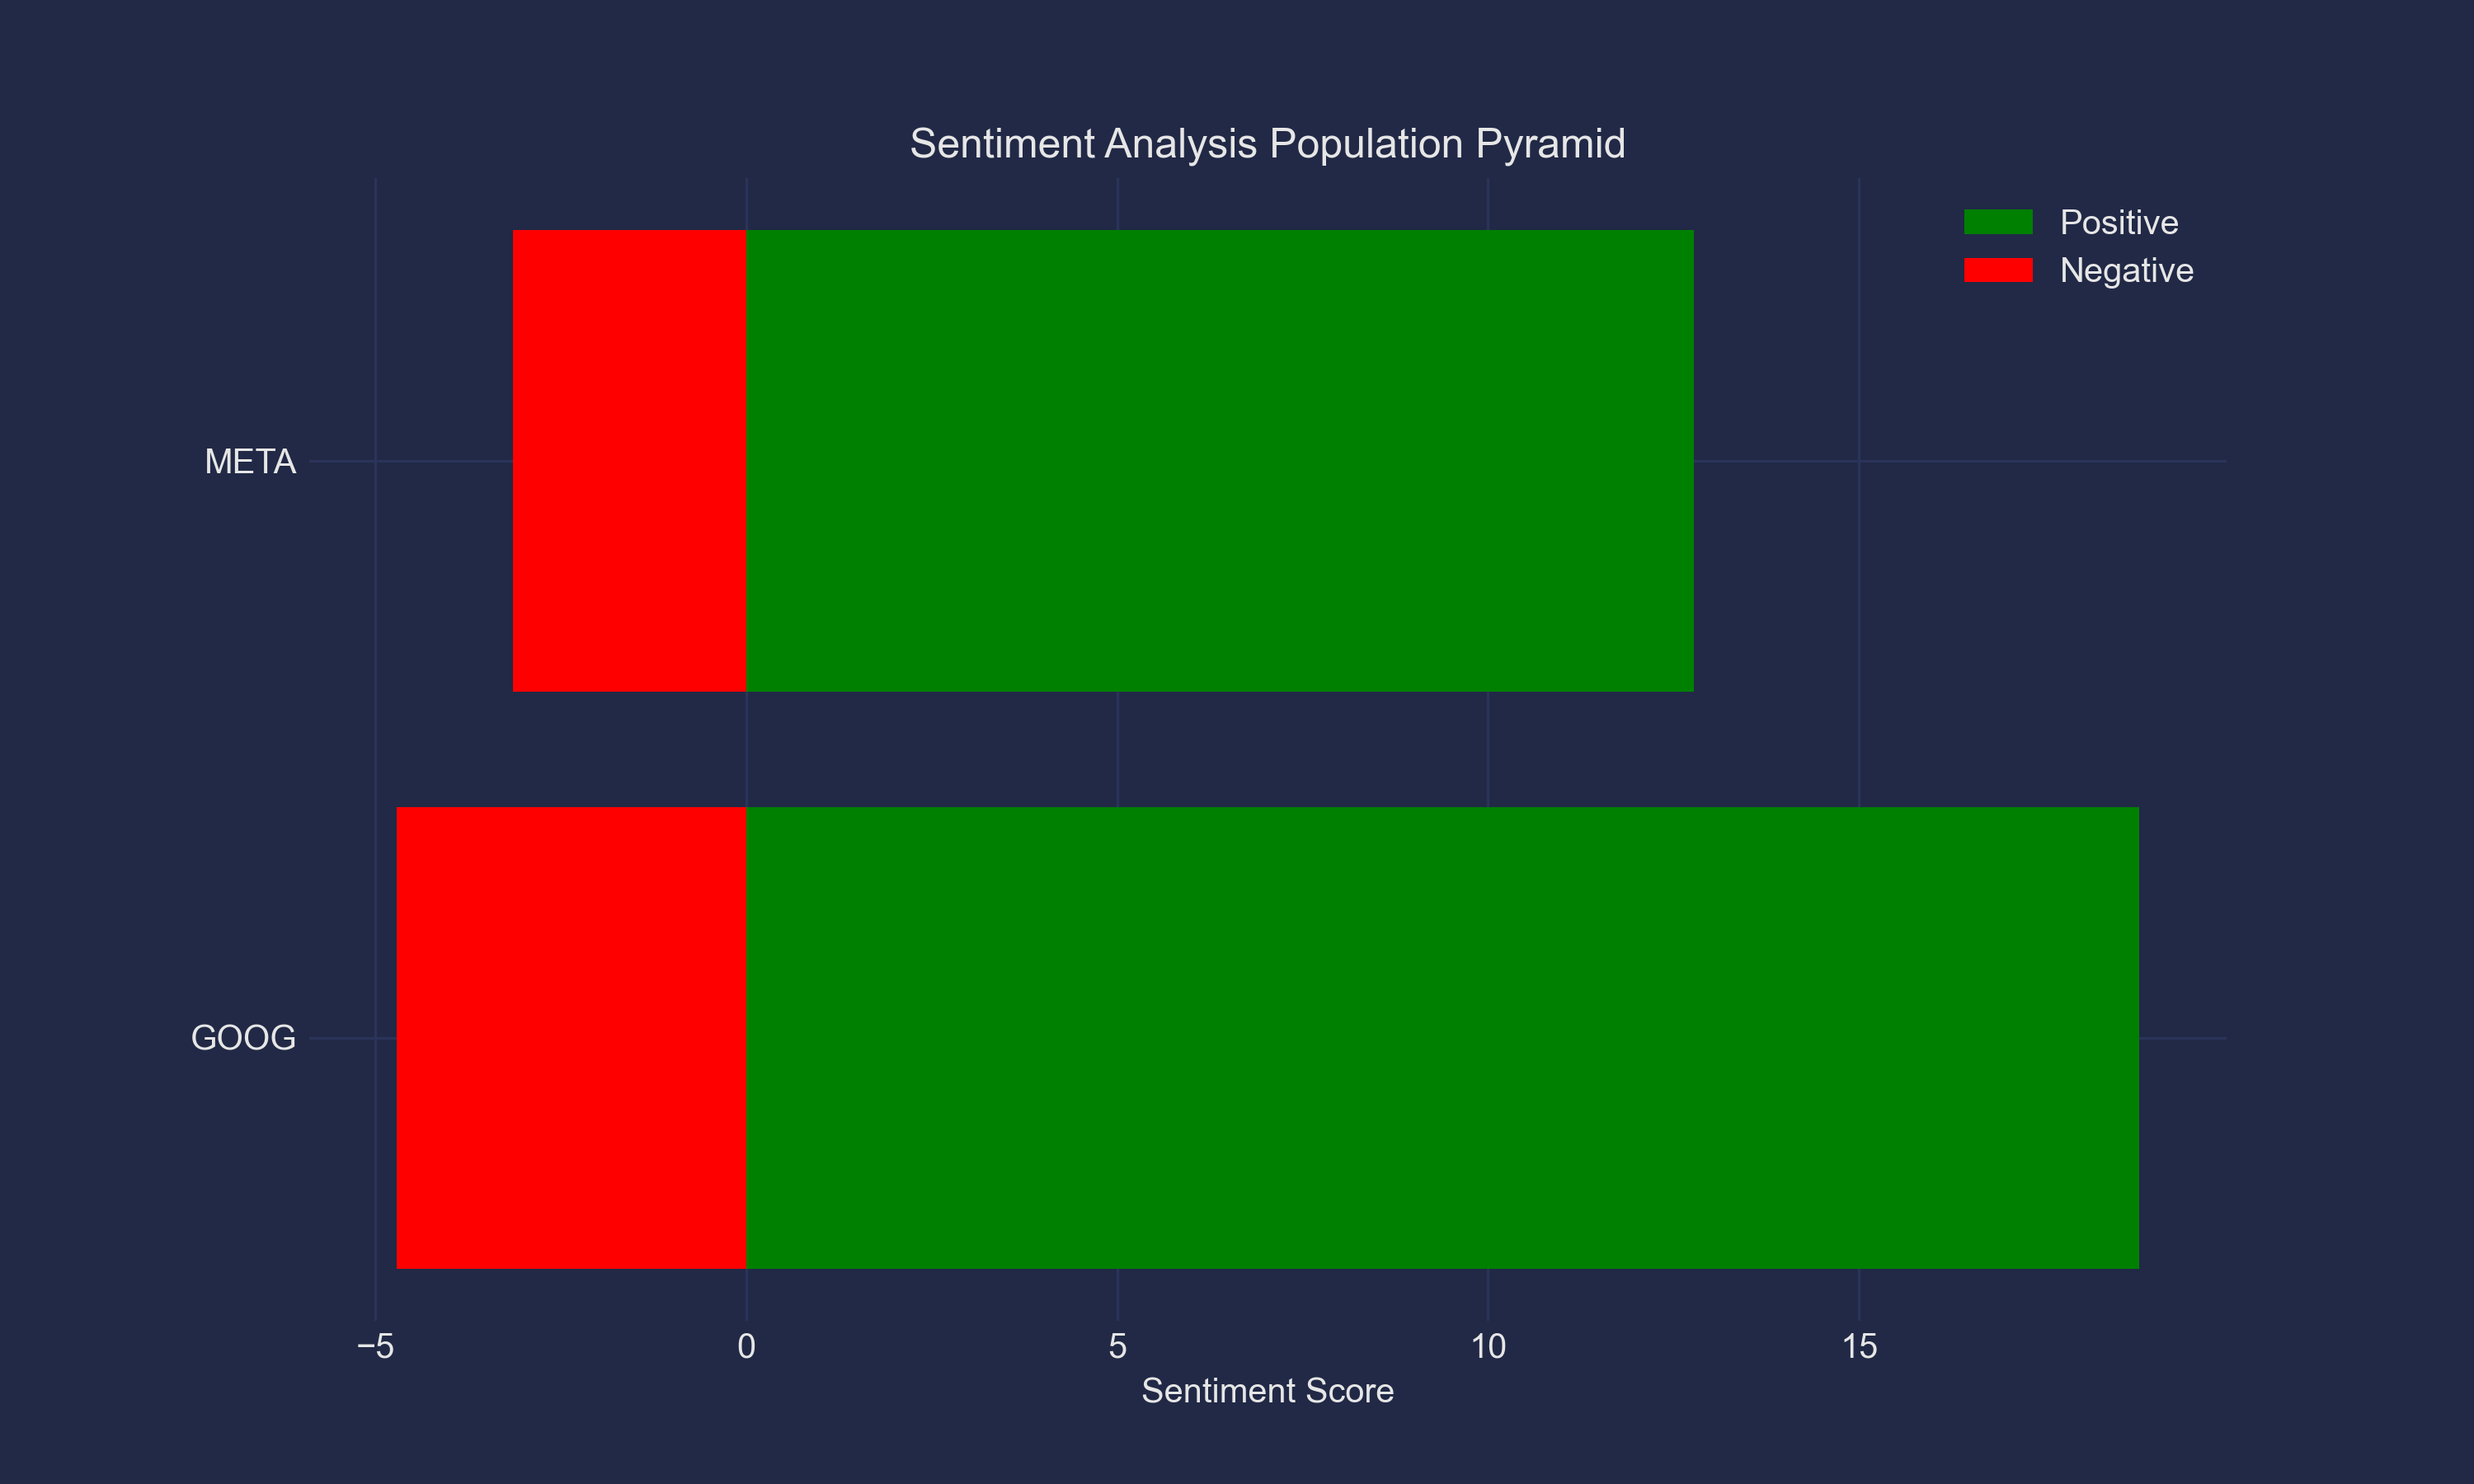
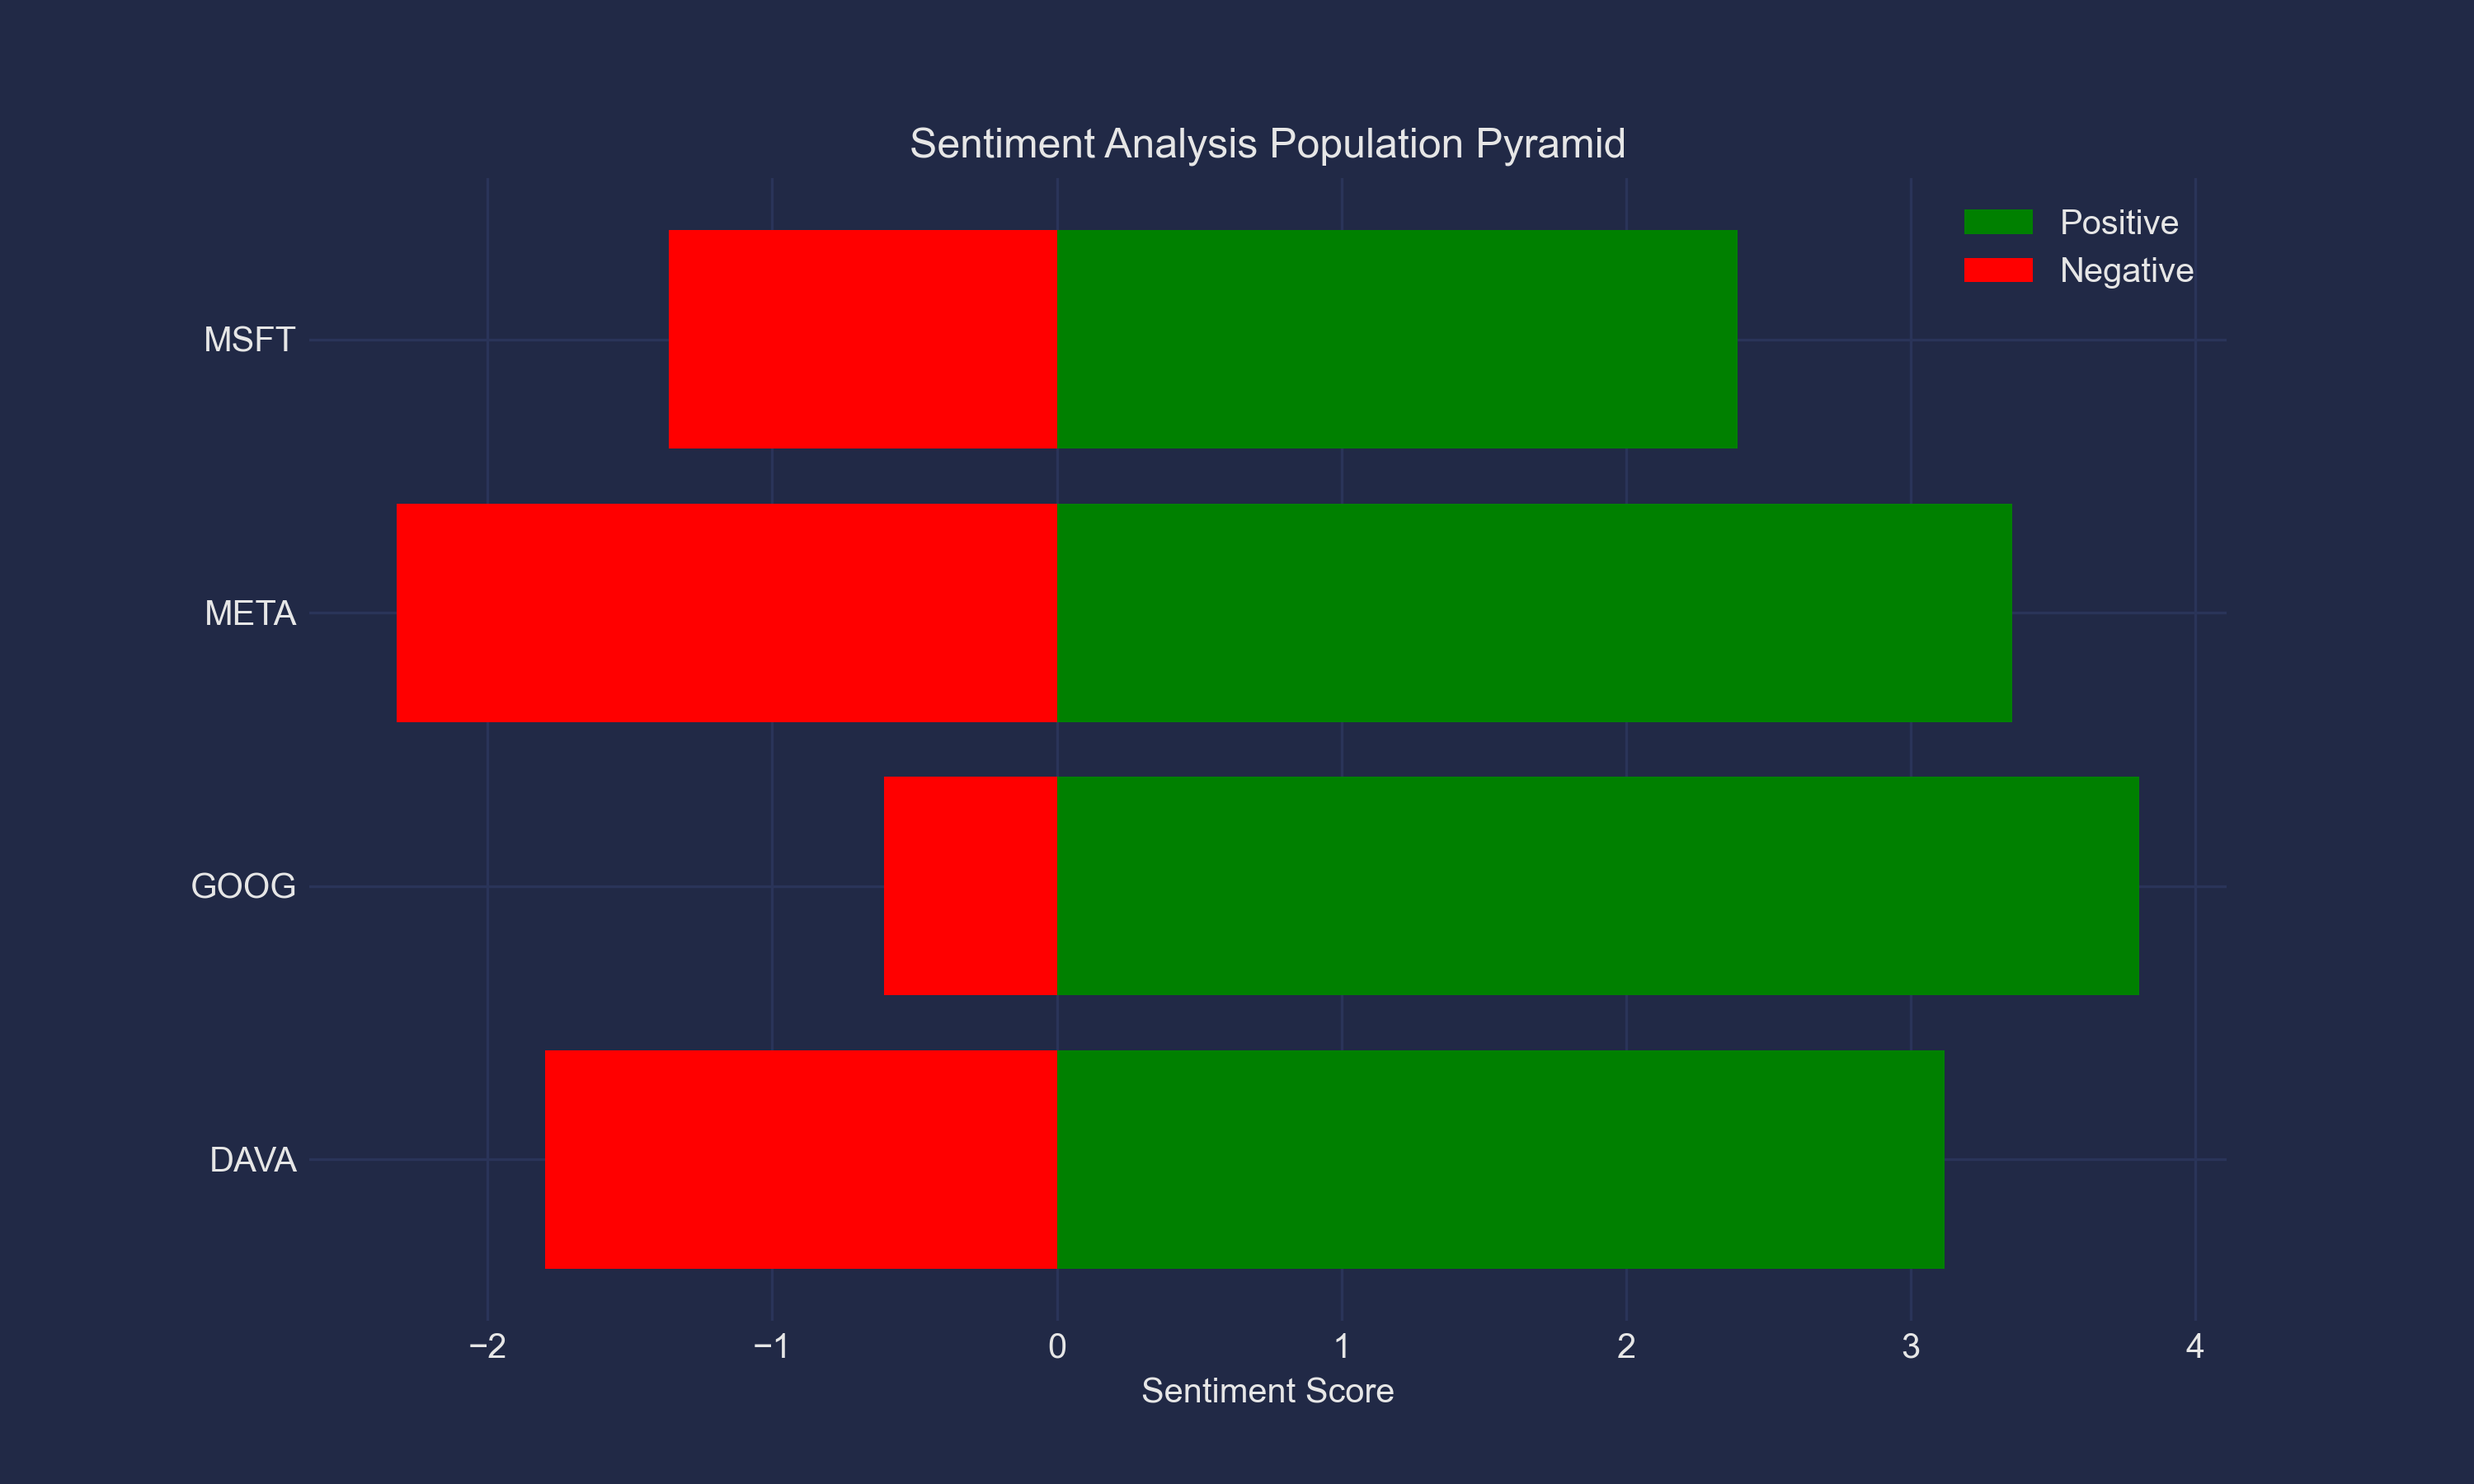
second part of my previous commit

diff --git a/sentimentsparkapp/src/main/java/com/sentimentspark/sentimentsparkapp/service/PyScriptRunner.java b/sentimentsparkapp/src/main/java/com/sentimentspark/sentimentsparkapp/service/PyScriptRunner.java
@@ -19,7 +19,8 @@ public class PyScriptRunner {
     public void runScript() throws IOException, InterruptedException {
         List<String> command = new ArrayList<>();
         command.add("python");
-        command.add("finviz.py");
+        command.add("main_script_runner.py");
+        command.add("stock_analysis");
         command.addAll(companies);
 
         System.out.println("Executing command: " + command);

diff --git a/sentimentsparkapp/src/main/java/com/sentimentspark/sentimentsparkapp/SentimentsparkappApplication.java b/sentimentsparkapp/src/main/java/com/sentimentspark/sentimentsparkapp/SentimentsparkappApplication.java
@@ -19,7 +19,7 @@ public class SentimentsparkappApplication implements CommandLineRunner {
 	@Override
 	public void run(String... args) throws Exception {
 
-		PyScriptRunner pythonScriptRunner = new PyScriptRunner(List.of("META","GOOG"));
+		PyScriptRunner pythonScriptRunner = new PyScriptRunner(List.of("META","GOOG","MSFT", "DAVA"));
 		pythonScriptRunner.runScript();
 	}
 }
